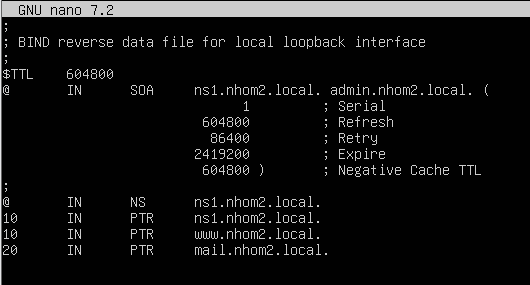
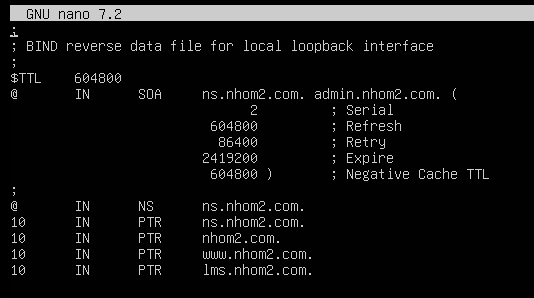
DHCP,DNS

diff --git a/NNTrung/02.CCNA/7.DNS/docs/docs.md b/NNTrung/02.CCNA/7.DNS/docs/docs.md
@@ -2,7 +2,7 @@
 ### Mục tiêu
 - Triển khai DNS server nội bộ với domain: trung.local
 - Máy chủ DNS có IP: `192.168.172.10`
-- Có thể phân giải tên `www.example.local` thành `192.168.172.112`
+- Có thể phân giải tên `www.nhom2.com` thành `192.168.172.112`
 - Hỗ trợ cả phân giải thuận (A record) và phân giải ngược (PTR record)
 
 ### Khởi động dịch vụ DNS
@@ -21,12 +21,12 @@ sudo nano /etc/bind/named.conf.local
 ```
 sửa file như sau:
 
-![altimahe](../image/khaibaozone.png)
+![altimahe](../image/Screenshot_1.png)
 
 ### Tạo Zone file cho tên miền
 ```plaintext
-sudo cp /etc/bind/db.local /etc/bind/db.nhom2.local
-sudo.nano /etc/bind/db.nhom2.local
+sudo cp /etc/bind/db.local /etc/bind/db.nhom2.com
+sudo.nano /etc/bind/db.nhom2.com
 ```
 Sửa theo nội dung:
 
@@ -37,7 +37,7 @@ Sửa theo nội dung:
 sudo nano /etc/hosts
 ```
 
-Thêm dòng: **192.168.172.10 ns1.nhom2.local ns1**
+Thêm dòng: **192.168.172.10 ns.nhom2.com ns**
 
 ![alitmaghwe](../image/suafilehost.png)
 ### Tạo file phân giải ngược
@@ -83,8 +83,8 @@ Cấu trúc:
 | 192.168.1.30 | `30 IN PTR mail.example.local.` | IP 192.168.1.30 → `mail.example.local.`                       |
 ### Bảo mật và phân quyền file
 ```plaintext
-sudo chown root:named /var/named/doantan.local.db
-sudo chown root:named /var/named/192.168.3.rev
+sudo chown root:named /etc/bind/db.nhom2.com
+sudo chown root:named /etc/bind/db.192
 sudo restorecon -v /var/named/*
 sudo systemctl restart named
 ```
@@ -104,6 +104,26 @@ dig www.nhom2.com
 ```
 - `dig` (và hệ thống) sẽ hỏi DNS server mặc định trên máy client (ghi trong `/etc/resolv.conf).
 - Nếu trong file `/etc/resolv.conf` không có dòng nameserver `192.168.172.10`, thì client sẽ hỏi một DNS khác (VD: 8.8.8.8 hoặc DNS router), mà DNS đó không biết zone nội bộ `nhom2.com` → nên trả về “not found”.
-- Cách sửa tạm thời: 
+#### Cách sửa tạm thời: 
   - Chạy: `sudo nano /etc/resolv.conf`
   - Sửa: `nameserver 192.168.172.10`
+
+#### Cách chỉnh sửa chuẩn nhất:
+  - Chạy : `sudo nano /etc/netplan/50-cloud-init.yaml`
+  - Sửa: 
+```plaintext
+  nameservers:
+    - 192.168.172.10
+```
+![altimage](../image/suacloudinit.png)
+
+`sudo netplan apply`
+
+Kiểm tra lại là thành công nhận.
+
+### Kiểm tra DNS
+- Trên máy chủ:
+
+![altimage](../image/checkdns.png)
+
+- Nếu hiện ra IP như hình là OK
